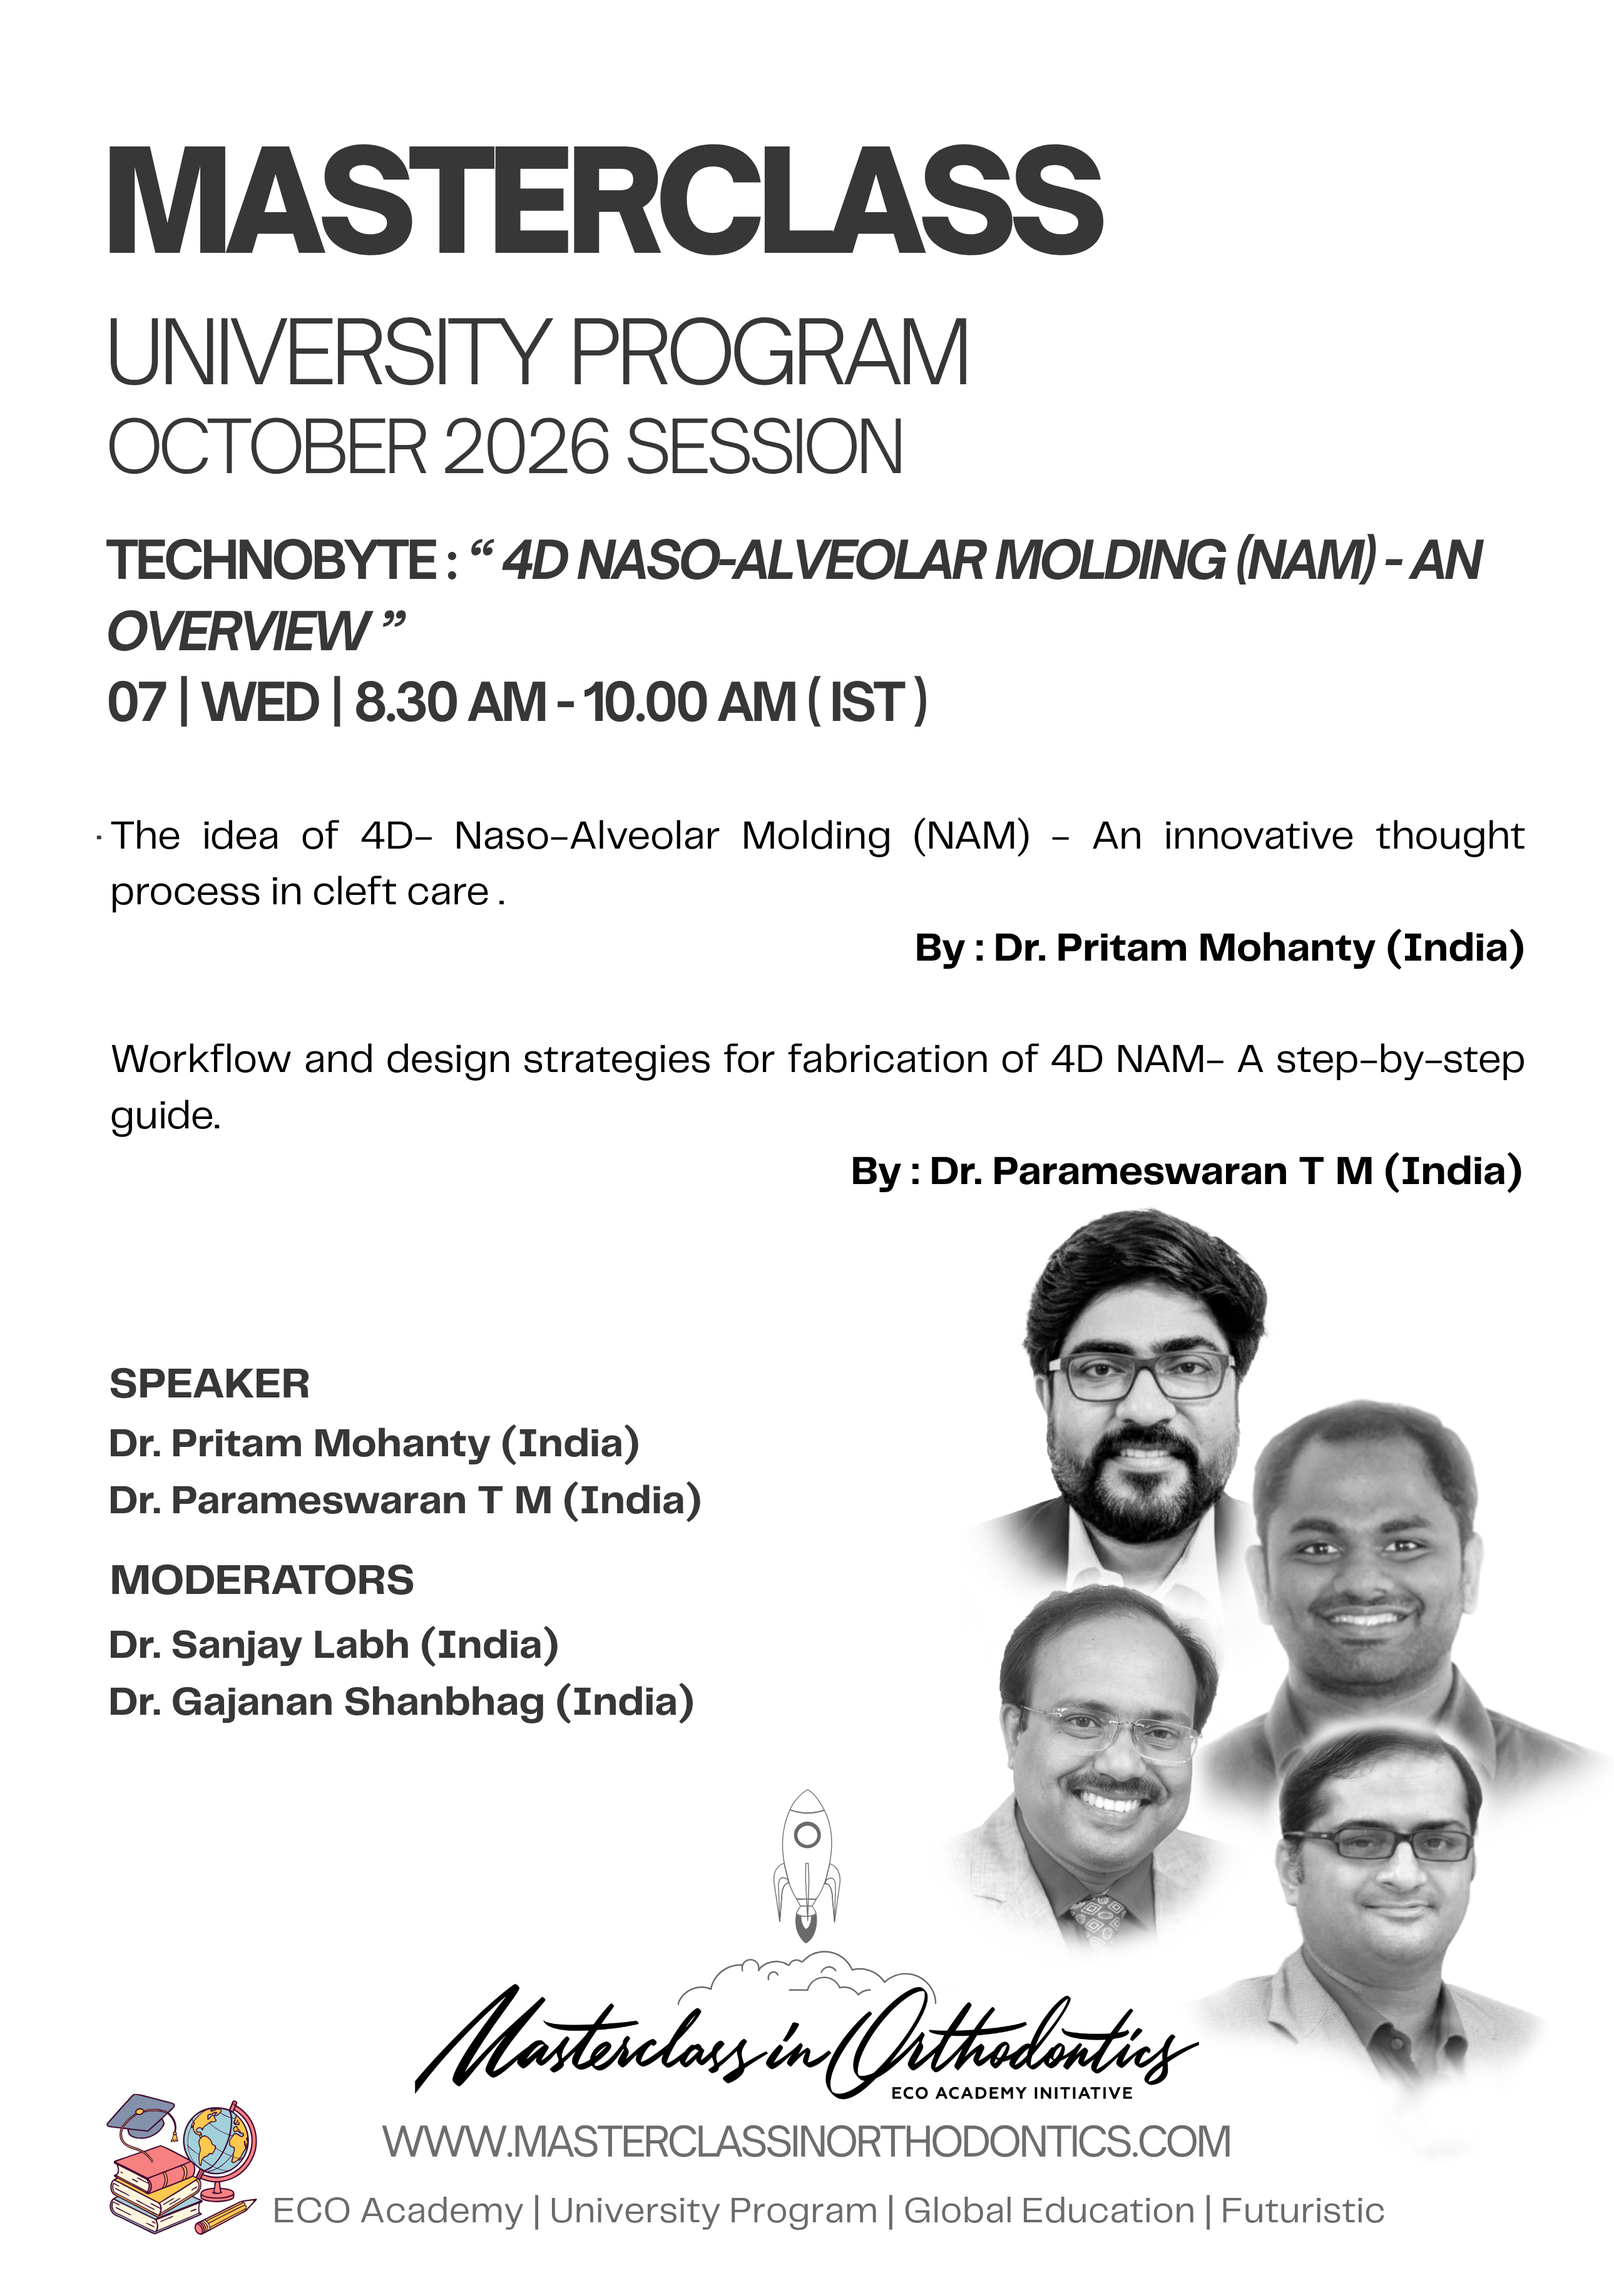
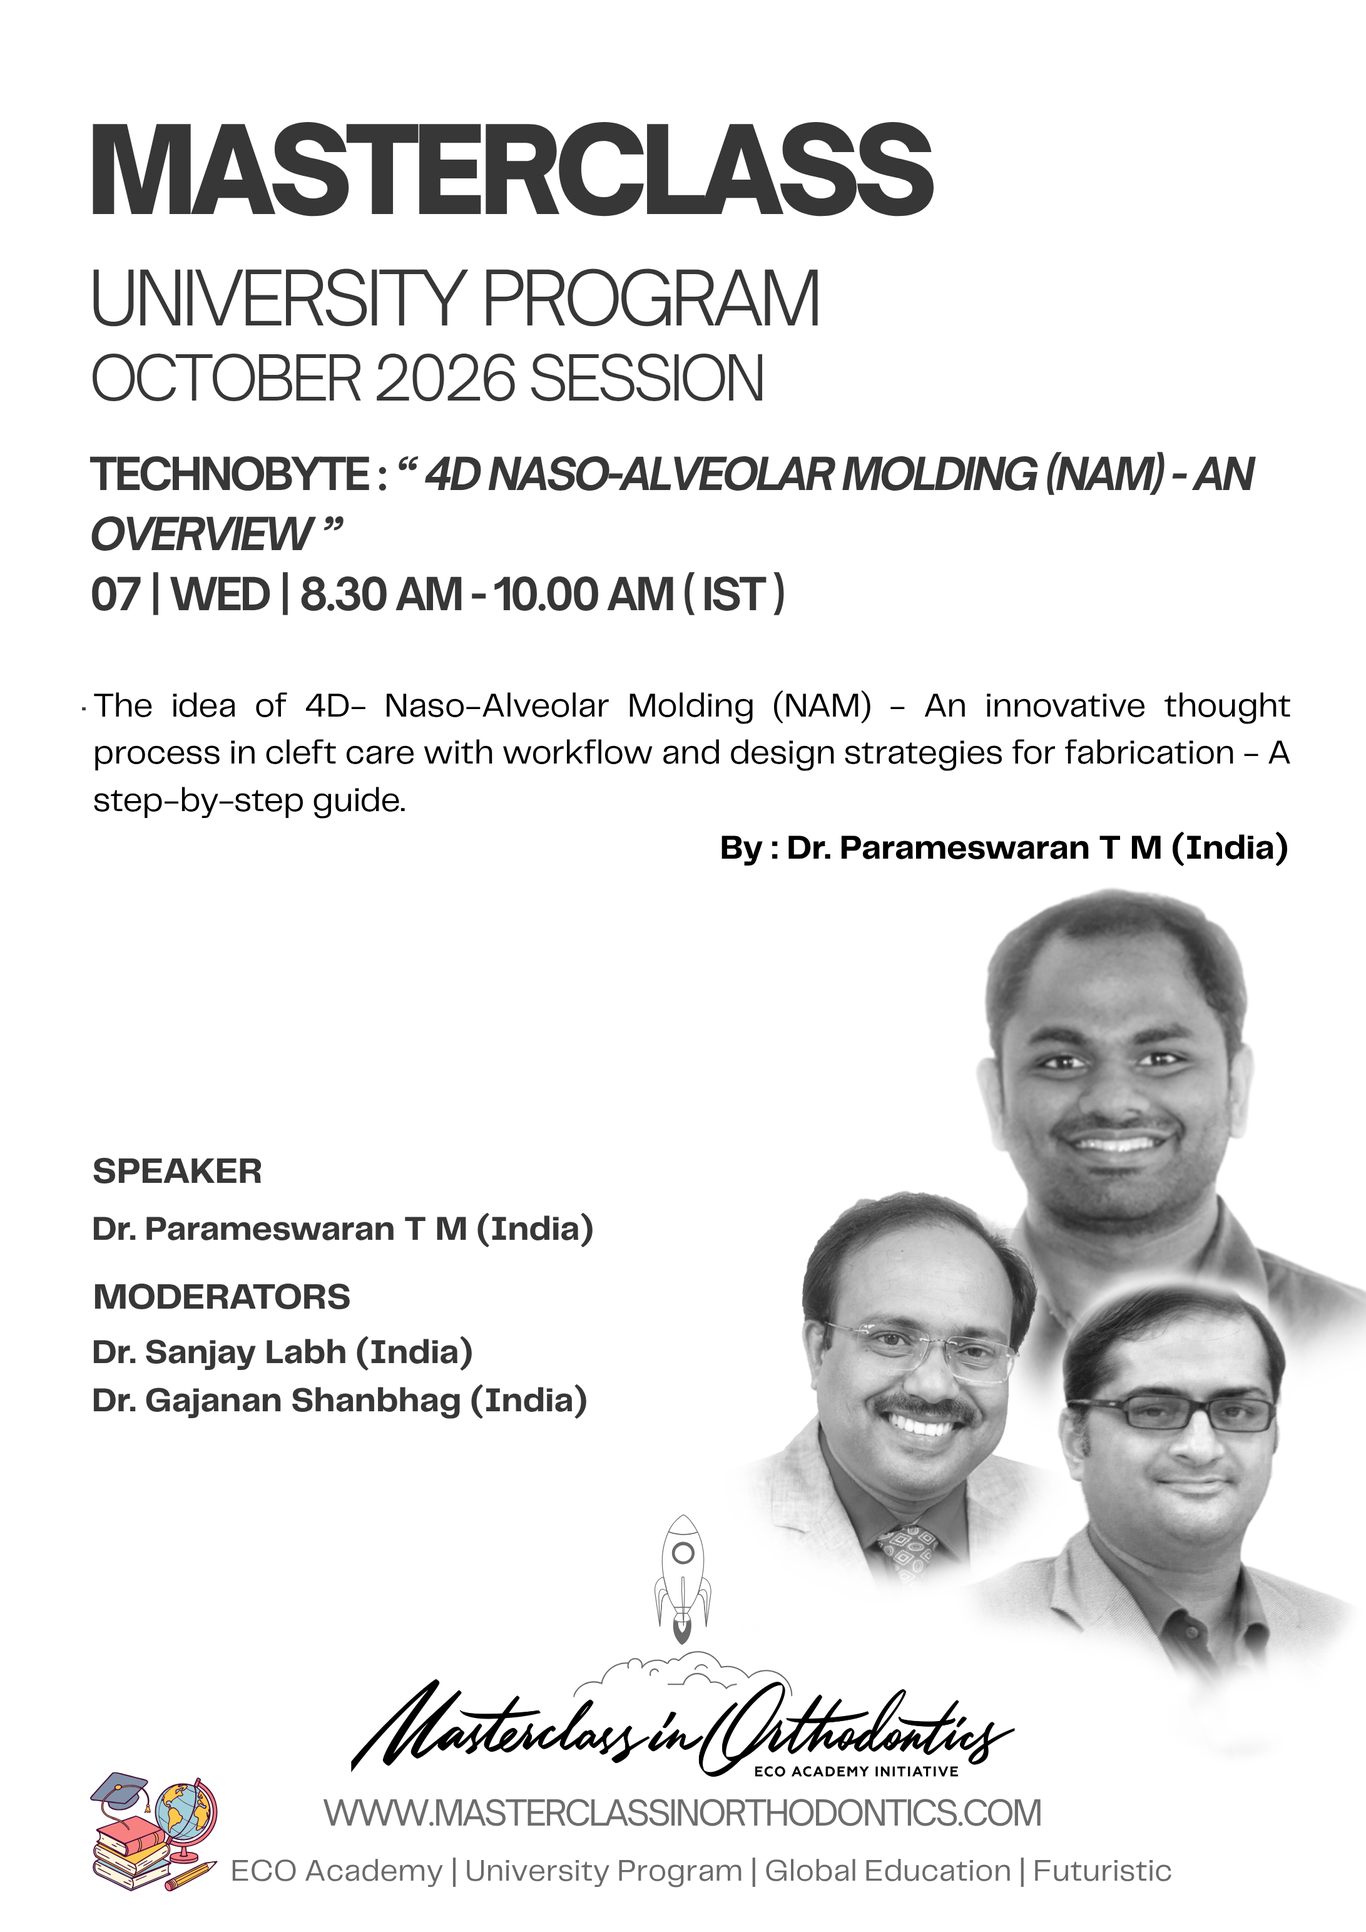
seventy fourth commit

diff --git a/src/pages/Zoom-meeting.jsx b/src/pages/Zoom-meeting.jsx
@@ -110,10 +110,6 @@ export default function ZoomSection() {
   };
 
   const individualUsers = {
-    "drpritammohanty@gmail.com": {
-      password: "MUPIND57",
-      link: "https://us06web.zoom.us/j/85731661836?pwd=ntT6iDa9uBRLeMUJXbGRdRab1F21Nw.1",
-    },
     "dr.parameswaran.tm@gmail.com": {
       password: "MUPIND57",
       link: "https://us06web.zoom.us/j/85731661836?pwd=ntT6iDa9uBRLeMUJXbGRdRab1F21Nw.1",
@@ -182,42 +178,6 @@ export default function ZoomSection() {
       password:"MUPIND12",
       link:"https://us06web.zoom.us/j/85731661836?pwd=ntT6iDa9uBRLeMUJXbGRdRab1F21Nw.1",
     },
-    "shana90@gmail.com":{
-      password:"MUPIND1",
-      link:"https://us06web.zoom.us/j/85731661836?pwd=ntT6iDa9uBRLeMUJXbGRdRab1F21Nw.1"
-    },
-    "drneerajrmehta@gmail.com":{
-      password:"MUPIND1",
-      link:"https://us06web.zoom.us/j/85731661836?pwd=ntT6iDa9uBRLeMUJXbGRdRab1F21Nw.1",
-    },
-    "drshafeeq89@gmail.com":{
-      password:"MUPIND1",
-      link:"https://us06web.zoom.us/j/85731661836?pwd=ntT6iDa9uBRLeMUJXbGRdRab1F21Nw.1"
-    },
-    "draamod_karandikar@yahoo.com":{
-      password:"MUPIND1",
-      link:"https://us06web.zoom.us/j/85731661836?pwd=ntT6iDa9uBRLeMUJXbGRdRab1F21Nw.1",
-    },
-    "prasannapalindla@gmail.com":{
-      password:"MUPIND1",
-      link:"https://us06web.zoom.us/j/85731661836?pwd=ntT6iDa9uBRLeMUJXbGRdRab1F21Nw.1"
-    },
-    "drpramodbds@gmail.com":{
-      password:"MUPIND1",
-      link:"https://us06web.zoom.us/j/85731661836?pwd=ntT6iDa9uBRLeMUJXbGRdRab1F21Nw.1"
-    },
-    "senarasi@yahoo.co.in":{
-      password:"MUPIND1",
-      link:"https://us06web.zoom.us/j/85731661836?pwd=ntT6iDa9uBRLeMUJXbGRdRab1F21Nw.1"
-    },
-    "aabhishek.guptasdc@gmail.com":{
-      password:"MUPIND1",
-      link:"https://us06web.zoom.us/j/85731661836?pwd=ntT6iDa9uBRLeMUJXbGRdRab1F21Nw.1",
-    },
-    "ankitshahi270@gmail.com":{
-      password:"MUPIND1",
-      link:"https://us06web.zoom.us/j/85731661836?pwd=ntT6iDa9uBRLeMUJXbGRdRab1F21Nw.1",
-    },
     "ajma.aishaali@gmail.com":{
       password:"MUPIND1",
       link:"https://us06web.zoom.us/j/85731661836?pwd=ntT6iDa9uBRLeMUJXbGRdRab1F21Nw.1",
@@ -275,6 +235,10 @@ export default function ZoomSection() {
       link:"https://us06web.zoom.us/j/85731661836?pwd=ntT6iDa9uBRLeMUJXbGRdRab1F21Nw.1",
     },
     "dr.rishikeshsukumaran@gmail.com":{
+      password:"MUPIND1",
+      link:"https://us06web.zoom.us/j/85731661836?pwd=ntT6iDa9uBRLeMUJXbGRdRab1F21Nw.1",
+    },
+    "bankeralka@yahoo.com":{
       password:"MUPIND1",
       link:"https://us06web.zoom.us/j/85731661836?pwd=ntT6iDa9uBRLeMUJXbGRdRab1F21Nw.1",
     },
